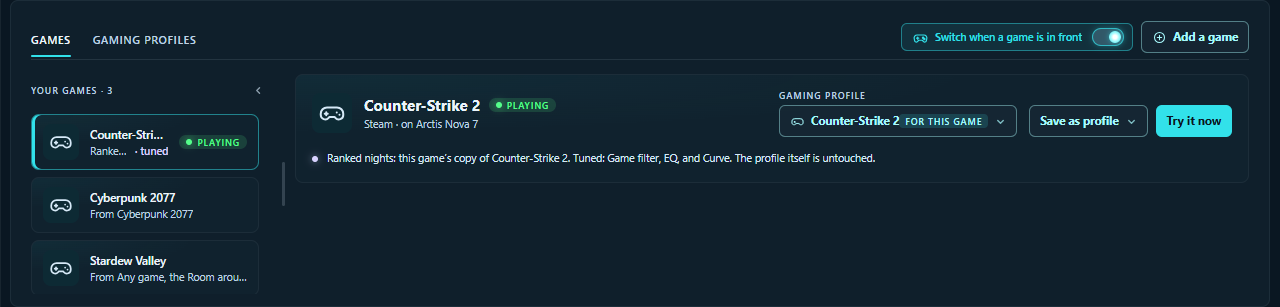
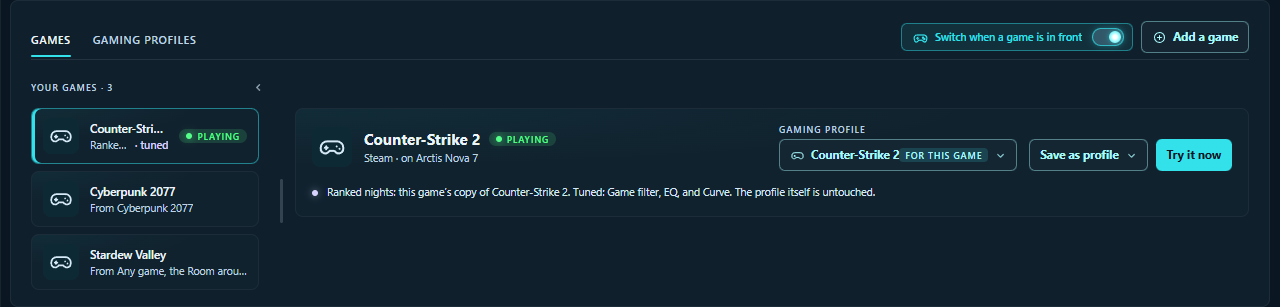
Animate folding the Gaming game list

diff --git a/src/renderer/styles/GamingGamesLayout.scss b/src/renderer/styles/GamingGamesLayout.scss
@@ -2,34 +2,65 @@
 
 @use 'theme' as *;
 @use 'color' as *;
+@use 'motion' as *;
 
 // The live page and its Help drawing share the list frame. Older tour
 // illustrations keep their layout until they opt into this class.
 .gaming-games.gaming-games--split {
-  grid-template-columns: var(--gaming-list-width) 16px minmax(0, 1fr);
-  gap: 0 4px;
+  // Keep the same tracks when folded so the editor moves with the list.
+  // The heading stays outside the moving tracks and remains reachable.
+  --gaming-fold: #{$motion-slow};
+  grid-template-columns: minmax(0, var(--gaming-list-width)) 24px minmax(0, 1fr);
+  grid-template-rows: 34px minmax(0, 1fr);
+  gap: 0;
   min-width: 0;
+  transition:
+    grid-template-columns var(--gaming-fold) $ease-out,
+    grid-template-rows var(--gaming-fold) $ease-out;
 
-  > .column-resizer {
+  .gaming-games__divider {
+    grid-column: 2;
+    grid-row: 2;
     position: sticky;
-    top: 0;
-    width: 16px;
-    height: var(--gaming-list-height);
+    top: 34px;
+    min-width: 0;
+    overflow: hidden;
+    height: calc(var(--gaming-list-height) - 34px);
+
+    > .column-resizer {
+      height: 100%;
+      margin: 0 4px;
+    }
+
+    > .pane-resizer {
+      margin: 0;
+    }
   }
 
-  > .pane-resizer {
-    margin: 4px 0;
+  .gaming-games__detail {
+    grid-column: 3;
+    grid-row: 2;
+    min-width: 0;
+  }
+
+  &:has(> .gaming-games__divider .is-dragging) {
+    transition: none;
   }
 
   .gaming-games__sidebar {
+    grid-column: 1;
+    grid-row: 2;
     position: sticky;
-    top: 0;
+    top: 34px;
     display: flex;
     flex-direction: column;
     gap: 8px;
     min-width: 0;
     min-height: 0;
-    height: var(--gaming-list-height);
+    height: calc(var(--gaming-list-height) - 34px);
+    overflow: hidden;
+    visibility: visible;
+    transition: visibility 0s;
   }
 
   .gaming-games__list {
@@ -39,18 +70,24 @@
     overscroll-behavior: contain;
     scrollbar-gutter: stable;
     padding-right: 4px;
-
-    &[hidden] {
-      display: none;
-    }
+    width: var(--gaming-list-width);
+    opacity: 1;
+    transition: opacity $motion-base ease-out calc(var(--gaming-fold) * 0.2);
   }
 
   .gaming-games__list-head {
+    grid-column: 1 / -1;
+    grid-row: 1 / -1;
+    position: sticky;
+    top: 0;
     display: flex;
     align-items: center;
     justify-content: space-between;
     gap: 8px;
     min-width: 0;
+    width: var(--gaming-list-width);
+    max-width: 100%;
+    height: 26px;
 
     > .gaming-cap {
       overflow: hidden;
@@ -81,34 +118,87 @@
     > .chevron {
       flex: 0 0 auto;
       transform: rotate(90deg);
+      transition: transform var(--gaming-fold) $ease-out;
     }
   }
 
-  &.is-stacked,
   &.is-list-collapsed {
-    grid-template-columns: minmax(0, 1fr);
-  }
+    grid-template-columns: minmax(0, 0px) 0px minmax(0, 1fr);
 
-  &.is-stacked .gaming-games__sidebar {
-    position: static;
-  }
-
-  &.is-stacked .gaming-games__list-toggle > .chevron {
-    transform: rotate(180deg);
-  }
-
-  &.is-list-collapsed {
-    row-gap: 12px;
+    .gaming-games__list-head {
+      position: static;
+    }
 
     .gaming-games__sidebar {
-      position: static;
-      width: fit-content;
-      max-width: 100%;
-      height: auto;
+      visibility: hidden;
+      transition: visibility 0s linear var(--gaming-fold);
+    }
+
+    .gaming-games__list {
+      opacity: 0;
+      transition: opacity 90ms ease-out;
+    }
+
+    .gaming-games__divider {
+      visibility: hidden;
     }
 
     .gaming-games__list-toggle > .chevron {
       transform: rotate(-90deg);
+    }
+  }
+
+  &.is-stacked {
+    grid-template-columns: minmax(0, 1fr);
+    grid-template-rows:
+      34px minmax(0, calc(var(--gaming-list-height) - 34px)) 16px
+      minmax(0, 1fr);
+
+    .gaming-games__list-head {
+      position: static;
+    }
+
+    .gaming-games__sidebar {
+      position: static;
+      height: 100%;
+    }
+
+    .gaming-games__list {
+      width: 100%;
+    }
+
+    .gaming-games__divider {
+      position: static;
+      grid-column: 1;
+      grid-row: 3;
+      height: 100%;
+    }
+
+    .gaming-games__detail {
+      grid-column: 1;
+      grid-row: 4;
+    }
+
+    .gaming-games__list-toggle > .chevron {
+      transform: rotate(180deg);
+    }
+
+    &.is-list-collapsed {
+      grid-template-rows: 34px minmax(0, 0px) 0px minmax(0, 1fr);
+
+      .gaming-games__list-toggle > .chevron {
+        transform: rotate(0deg);
+      }
+    }
+  }
+
+  @media (prefers-reduced-motion: reduce) {
+    --gaming-fold: 1ms;
+
+    .gaming-games__list,
+    &.is-list-collapsed .gaming-games__list {
+      transition-duration: 1ms;
+      transition-delay: 0s;
     }
   }
 }

diff --git a/src/renderer/help/live/gamingFigures.tsx b/src/renderer/help/live/gamingFigures.tsx
@@ -84,13 +84,13 @@ const GamingLabDrawing = () => {
               } as CSSProperties
             }
           >
+            <GamingGamesListToggle
+              count={GAMES.length}
+              collapsed={false}
+              controls={listId}
+              onToggle={nothing}
+            />
             <aside className="gaming-games__sidebar">
-              <GamingGamesListToggle
-                count={GAMES.length}
-                collapsed={false}
-                controls={listId}
-                onToggle={nothing}
-              />
               <div className="gaming-games__list" id={listId}>
                 {GAMES.map((game) => (
                   <GamingGameRow
@@ -107,15 +107,20 @@ const GamingLabDrawing = () => {
                 ))}
               </div>
             </aside>
-            <ColumnResizer
-              ariaLabel={t('gaming.list.resize')}
-              valuePercent={25}
-              onStart={nothing}
-              onDrag={nothing}
-              onEnd={nothing}
-              onReset={nothing}
-            />
-            <section className="gaming-panel" aria-label={shown.name}>
+            <div className="gaming-games__divider">
+              <ColumnResizer
+                ariaLabel={t('gaming.list.resize')}
+                valuePercent={25}
+                onStart={nothing}
+                onDrag={nothing}
+                onEnd={nothing}
+                onReset={nothing}
+              />
+            </div>
+            <section
+              className="gaming-games__detail gaming-panel"
+              aria-label={shown.name}
+            >
               <GamingGameHead
                 game={shown}
                 where={t('gaming.game.where', {

diff --git a/src/renderer/games/GamingGamesLayout.tsx b/src/renderer/games/GamingGamesLayout.tsx
@@ -66,23 +66,27 @@ export default function GamingGamesLayout({
         } as CSSProperties
       }
     >
-      <aside className="gaming-games__sidebar">
-        <GamingGamesListToggle
-          count={count}
-          collapsed={layout.collapsed}
-          controls={listId}
-          onToggle={layout.toggle}
-        />
-        <div
-          id={listId}
-          className="gaming-games__list"
-          hidden={layout.collapsed}
-        >
+      <GamingGamesListToggle
+        count={count}
+        collapsed={layout.collapsed}
+        controls={listId}
+        onToggle={layout.toggle}
+      />
+      <aside
+        className="gaming-games__sidebar"
+        inert={layout.collapsed}
+        aria-hidden={layout.collapsed}
+      >
+        <div id={listId} className="gaming-games__list">
           {list}
         </div>
       </aside>
-      {!layout.collapsed &&
-        (layout.stacked ? (
+      <div
+        className="gaming-games__divider"
+        inert={layout.collapsed}
+        aria-hidden={layout.collapsed}
+      >
+        {layout.stacked ? (
           <PaneResizer
             ariaLabel={t('gaming.list.resize')}
             valuePercent={layout.valuePercent}
@@ -99,8 +103,9 @@ export default function GamingGamesLayout({
             onEnd={layout.commit}
             onReset={layout.reset}
           />
-        ))}
-      {children}
+        )}
+      </div>
+      <div className="gaming-games__detail">{children}</div>
     </div>
   );
 }

diff --git a/src/__tests__/unit_tests/renderer/gamingGamesLayout.test.tsx b/src/__tests__/unit_tests/renderer/gamingGamesLayout.test.tsx
@@ -45,9 +45,13 @@ afterEach(() => jest.restoreAllMocks());
 it('folds the game list without remounting or losing the editor, and remembers the fold', () => {
   const view = open();
   const editor = screen.getByLabelText('Game tuning');
+  const game = screen.getByRole('button', { name: 'Select game' });
   fireEvent.change(editor, { target: { value: 'edited' } });
   fireEvent.click(screen.getByRole('button', { name: 'Hide game list' }));
   expect(screen.queryByRole('button', { name: 'Select game' })).toBeNull();
+  // It can finish sliding away without leaving invisible controls reachable.
+  expect(game).toBeInTheDocument();
+  expect(game.closest('aside')).toHaveAttribute('inert');
   expect(screen.getByLabelText('Game tuning')).toBe(editor);
   expect(editor).toHaveValue('edited');
   expect(screen.queryByRole('separator')).toBeNull();

diff --git a/CHANGELOG.md b/CHANGELOG.md
@@ -52,7 +52,7 @@ made for games.
 - **Add a game** scrolls while keeping its action buttons in view.
 - **A game list that stays out of the editor's way.** Its own scrollbar keeps
   a long list from lengthening the page. Drag the divider to resize it, or
-  fold it with the chevron; its size and folded state are remembered.
+  fold it smoothly with the chevron; its size and folded state are remembered.
 - **The picker leaves non-games out.** FluidEQ and its development runtime,
   Windows Explorer, known system processes and launchers, and shared runtime
   installers cannot be added or matched as games.
